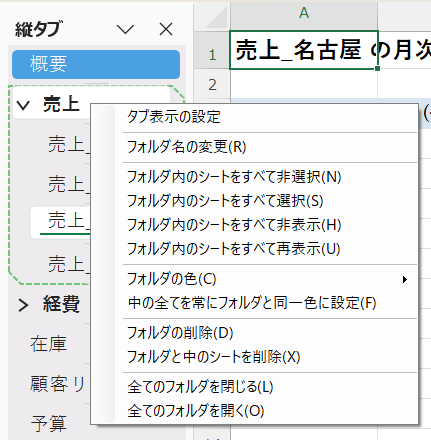
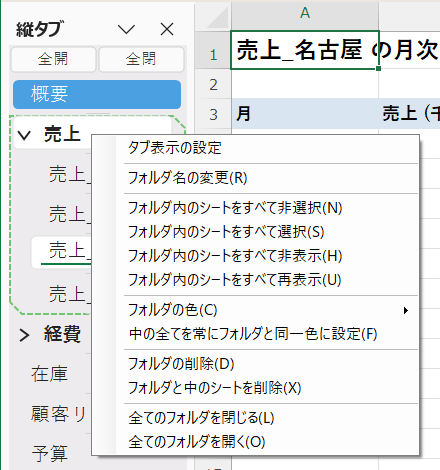
README の全画像を撮り直し、アニメーションの説明と動く画像 (GIF) を追加する

diff --git a/README.md b/README.md
@@ -10,7 +10,7 @@
 - **一覧できる** … シート名がずらりと縦に並ぶ。もう、横スクロールの矢印を何度も押さなくていい
 - **整理できる** … シートを**フォルダ**にまとめられる。並びは、Excelのシートの並びにも反映。縦タブの上端の「全開」「全閉」で、フォルダをまとめて開閉
 - **いつもの操作** … クリック、ドラッグ、Ctrl+ドラッグでコピー、右クリックメニュー、シート見出しの色まで、横タブと同じ
-- **選べる見た目** … 8つの選択デザインと、5つのアクティブシートの印。ガラスのような透け感の選択表示も。選んだシートや、開閉したフォルダが、ぷるっと揺れるアニメーションも (初期値は、なし)
+- **選べる見た目** … 8つの選択デザインと、5つのアクティブシートの印。ガラスのような透け感の選択表示も。選んだシートや、開閉したフォルダが、ぷるっと揺れるアニメーションも (初期値は、なし。[動く様子を見る](#18-シートがぷるっと動く-アニメーション))
 - **ブックごとに設定** … 縦タブを使うブックだけ、使える。設定は、ブックと一緒に保存される
 
 開発の経緯、仕様、検証結果は、ソースのリポジトリの `Agents.md` に、ビルドやインストーラの作成 (開発者向け) は、`DEVELOPMENT.md` にまとめています。
@@ -52,7 +52,7 @@
 | **縦タブの位置** | 画面の左 / 右 |
 | **アクティブシートのマーカー表示** | 今開いているシートの印。下線 / 三角 / 両端バー / チェックバッジ / なし ([1.5](#15-選択中のフォルダとシートの見た目を選ぶ)) |
 | **フォルダ＆シート選択のデザイン** | 選択中のフォルダとシートの見た目を、8種類から。**サンプルが、その場で見える** ([1.5](#15-選択中のフォルダとシートの見た目を選ぶ)) |
-| **開閉したフォルダ＆選択したシートのアニメーション** | シートを選ぶと、そのシートが揺れる。フォルダを開閉すると、そのフォルダも同じように揺れる (開いたときは、中のシートも一斉に揺れる)。6種類の動き (シェイク / ウォブル / ジェリー / バウンス / パルス / スイング) とランダム、揺れの大きさと長さを選べる (初期値は、なし。[8章](#8-設定画面)) |
+| **開閉したフォルダ＆選択したシートのアニメーション** | シートを選ぶと、そのシートが揺れる。フォルダを開閉すると、そのフォルダも同じように揺れる (開いたときは、中のシートも一斉に揺れる)。6種類の動き (シェイク / ウォブル / ジェリー / バウンス / パルス / スイング) とランダム、揺れの大きさと長さを選べる (初期値は、なし。[1.8](#18-シートがぷるっと動く-アニメーション)、[8章](#8-設定画面)) |
 | **フォルダを囲む点線** | 開いたフォルダを囲む点線の、表示 / 非表示と、色の濃さ (9段階) |
 | **シート名のルール** | 「フォルダ名 \| シート名」の名前で、フォルダを自動で作る ([1.6](#16-シート名だけでフォルダを共有する-シート名のルール)) |
 
@@ -128,7 +128,51 @@
 
 ![シート見出しの色のパレット。Excelの横タブと同じ構成](docs/images/menu_palette.png)
 
-### 1.8 使い方のまとめ
+### 1.8 シートが、ぷるっと動く (アニメーション)
+
+縦タブの1行をクリックしたとき、**その行が、ぷるっと動いて「ここだよ」と答えてくれたら**、シートを切り替えるのが、少し楽しくなりませんか。
+
+このアドインには、そんな**遊び心のアニメーション**があります。シートを選ぶたび、フォルダを開け閉めするたびに、その行が、小さく揺れて、すっと元の位置に収まります。揺れは、時間とともに小さくなるので、うるさくありません。
+
+#### 6つの動きと、ランダム
+
+![6種類の動き。シェイク、ウォブル、ジェリー、バウンス、パルス、スイングが、同時に動く](docs/images/wobble_types.gif)
+
+| 動き | どう動くか |
+|---|---|
+| **1 シェイク** | 左右に、ぶるっと揺れる |
+| **2 ウォブル** | 中心を軸に、くるっと回って揺れる |
+| **3 ジェリー** | ゼリーのように、縦横に伸び縮みする |
+| **4 バウンス** | ぽんっと、跳ねる |
+| **5 パルス** | ふくらんで、戻る。鼓動のよう |
+| **6 スイング** | 左上を支点に、振り子のように揺れる |
+| **7 ランダム** | シートを選ぶたびに、1から6のどれかが出る。次は何が出るか、お楽しみ |
+
+#### 実際のExcelでは、こう動く
+
+次の動画は、実際のExcelで、縦タブのシートを、次々にクリックしたところです (動きは「ランダム」、見た目は「クリスタル」)。クリックするたびに、選んだ行が、違う動きで、ぷるっと答えます。
+
+![実際のExcelで、シートを次々にクリックすると、選んだ行がそのたびに揺れる](docs/images/wobble_excel.gif)
+
+#### フォルダも、いっしょに揺れる
+
+フォルダを**開いた**ときは、フォルダと、**中のシートが、一斉に**揺れます。**閉じた**ときは、フォルダが、ぷるっと揺れて、しまわれます。縦タブの上端の「**全開**」「**全閉**」を押すと、すべてのフォルダが、いっせいに揺れます。
+
+![全閉を押すと、フォルダが閉じる。全開を押すと、フォルダが開いて、中のシートも一斉に揺れる](docs/images/folders_excel.gif)
+
+> 開いたときに揺れるのは、縦タブの表示範囲に見えているシートだけです。スクロールで隠れているシートは、揺れません。
+
+#### 自分好みに、整える
+
+動き、**揺れの大きさ** (40から200%)、**揺れの長さ** (0.3から1.2秒) は、「タブ表示の設定」で選べます。サンプルのシートが、選んだ動きを、繰り返し見せてくれるので、見ながら決められます。「揺れのリセット」で、初期値 (100%、0.6秒) に戻ります。
+
+![アニメーションの設定。動きの選択、揺れの大きさと長さのスライダー、サンプル](docs/images/settings_anim.png)
+
+- 初期値は、**なし** (揺れません)。使いたいブックで、動きを選んでください。設定は、ブックごとに、ブックと一緒に保存されます
+- 「選択したデザインとマーカー表示の見た目にする」にチェックを入れると、サンプルが、いま選んでいる選択デザインとマーカーで動きます。実際の縦タブの見た目で、動きを確かめられます
+- 動きを「なし」にすれば、いつでも、静かな縦タブに戻せます
+
+### 1.9 使い方のまとめ
 
 | やりたいこと | 操作 |
 |---|---|

diff --git a/Agents.md b/Agents.md
@@ -46,7 +46,7 @@
 | 8 | Step0 から Step5 の開発メモ |
 | 9 | Step6 見た目の再現 (採寸結果、テーマ、DPI) |
 | 10、11 | Step7 仕上げ、完了状況と残課題 |
-| 12 | Step8 フォルダ機能の設計と、その後の改善、不具合の修正、リリースの記録 (12.1 から 12.155) |
+| 12 | Step8 フォルダ機能の設計と、その後の改善、不具合の修正、リリースの記録 (12.1 から 12.157) |
 | 13 | リリースの定型作業 |
 
 ## 1. 目的
@@ -2100,3 +2100,10 @@ gitGraph
 
 - 12.154 で撮り直していなかった、`docs/images/hero.png` (Before / After) と `modes.png` (表示モード A、B、C、C + 右側) を、いまの縦タブで、撮り直した。フォルダが2つある縦タブ (売上は開、経費は閉) で、上端に「全開」「全閉」のボタンの帯が写る。撮影: Excel (リボンを畳んだ状態、拡大率125%)、アドインなし (A) / あり (B、C、C + 右側)、12枚のシート (概要、売上_東京など)、アクティブなシートは、Aが「概要」、ほかが「売上_大阪」。ウィンドウの端に、背景の画面が写り込むため、右と下の端を、少し切り落とした
 - 注意: `rule.png` (シート名のルール)、`menu_*.png`、`ribbon.png`、`designs.png`、`markers.png` は、撮り直していない (フォルダのある縦タブの帯は、`rule.png` に写っていない可能性がある。必要なら、撮り直す)
+
+### 12.157 更新: README の全画像の撮り直しと、アニメーションの説明、動く画像 (GIF)
+
+- ユーザーの依頼により、README で使う全画像を、いまのアドインで撮り直した。`ribbon.png`、`rule.png`、`menu_sheet.png`、`menu_folder.png`、`menu_palette.png` は、実機の Excel (拡大率125%、アドインなし / あり) を撮影して合成。`designs.png`、`markers.png` は、縦タブの部品を単独の画面に置いて描画 (「全開」「全閉」の帯つき)。`settings_full.png`、`settings_design.png` は 12.154 のもの、`hero.png`、`modes.png` は 12.156 のもの。パレットのメニューは、ウィンドウの高さを広げて、切れないようにした
+- 追加した画像: `settings_anim.png` (設定画面のアニメーションの部分の切り出し)、`wobble_types.gif` (6種類の動きを、3 x 2 で同時に再生。縦タブの部品を単独の画面で描画)、`wobble_excel.gif` (実機の Excel で、シートを次々にクリック。動きはランダム、見た目はクリスタル)、`folders_excel.gif` (「全閉」「全開」で、フォルダと中のシートが揺れる)。GIF は、画面の領域を、約6msおきに撮り、約60msおきの画像を選んで、80から96色に減色して作る (約0.4から1MB)
+- README: 1.8 に「シートが、ぷるっと動く (アニメーション)」を足した (動きの表、3つの GIF、設定画面の画像)。旧 1.8 (使い方のまとめ) は 1.9 になった。冒頭の特長と、1.2 の表から、1.8 へのリンクを張った
+- 注意: 画像は、撮影時の環境 (Windows 11、拡大率125%、カラフルの配色) のもの。UI を変えたときは、撮り直す
